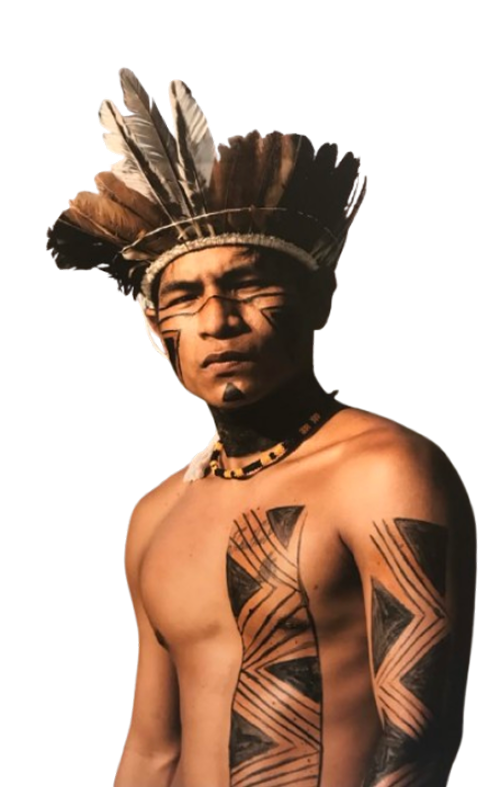
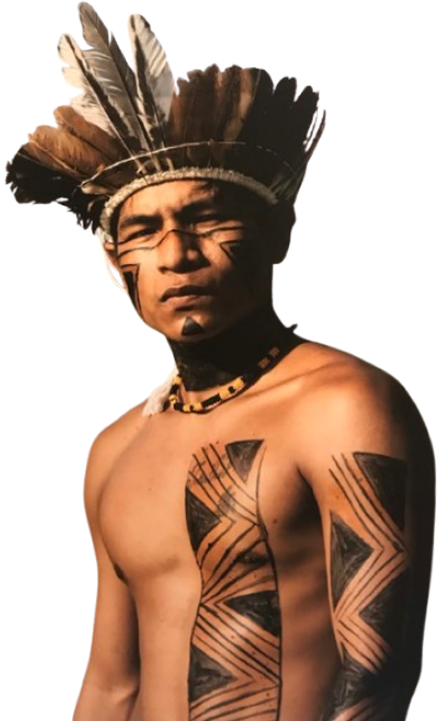
Ajuste de responsividade e estética
Ajustei a altura do indígena conforme escala e fiz algumas adições estéticas, como 14 texturas

diff --git a/source/pages/home-page/home.html b/source/pages/home-page/home.html
@@ -91,7 +91,9 @@
             <a href="/source/pages/semana-cultural-page/semana-cultural.html?scroll=eventoPrincipal" class="bg-[#742E05] hover:bg-orange-700 text-white font-bold py-3 px-8 rounded-md transition-all shadow-md">SAIBA MAIS</a>
         </div>
     </section>
-    <section id="banners">
+
+
+    <section id="banners" class="py-10">
         <div class="banner-wrapper">
             <div class="bannerfront bg_bannerf">
                 <div class="imgs-front">
@@ -111,9 +113,9 @@
         </div>
     </section>
     <section>
-            <div class=" flex py-[13%] ml-[1%] mr-[1%] itens-center">
-                <div class="w-[100%] h-[50%] o-guarani shadow-xl min-h-[615.713px] py-3 rounded-2xl  sm:flex sm:items-center py-10 xl:h-[100vh]">
-                     <div class="font-extrabold text-4xl ml-[2%] sm:text-6xl lg:text-7xl lg:ml-[2%]">
+            <div class="flex h-[90vh] my-[0%] items-end">
+                <div class="w-[100%] o-guarani min-h-[615.713px] py-10 rounded-2xl  sm:flex sm:items-center py-10 xl:mx-[5%] xl:h-[75%]">
+                    <div class="font-extrabold text-4xl ml-[2%] sm:text-6xl lg:text-7xl lg:ml-[2%]">
                         <div class="flex ml-[3%] sm:flex-col font-extrabold text-[#742E05] border-l-4 border-[#F5E4CA] pl-2 pr-4">
                             <h1 class="font-extrabold text-orange-400 mb-[0%] mr-[5%] sm:flex-col sm:mb-[50%] font-extrabold text-[#742E05]">O</h1>
                             <h1>G</h1>
@@ -125,8 +127,8 @@
                             <h1>I</h1>
                         </div>
                     </div>
-                    <div class="texto-guarani mt-[4%] pl-[6%] text-xl justify-center w-[80%] lg:text-2xl xl:w-[55%] text-justify sm:mt-[%] ml-[0%]  ">
-                        <h1>Quem são os Guarani </h1>
+                    <div class="texto-guarani mt-[3%] px-[3%] text-xl justify-center w-[80%] sm:mt-[0%] lg:text-2xl min-[1280px]:w-[60%]  text-justify xl:w-[55%] shadow-xl bg-[#decaac] rounded-3xl">
+                        <h1 class=>Quem são os Guarani </h1>
                         <h3>Um dos povos originários mais antigos da América do Sul, presentes no Brasil, Paraguai, Argentina e Bolívia. Sua história começa muito antes da chegada dos colonizadores.</h3>
                         <h1>Sabedoria ancestral</h1>
                         <h3>A vida Guarani é marcada pela relação profunda com a natureza e pela espiritualidade. Cada rio, floresta e caminho guarda um significado especial.</h3>
@@ -136,11 +138,11 @@
                         <h3>Mais do que preservar sua cultura, os Guarani compartilham com o mundo uma visão baseada na coletividade, no respeito à terra e na harmonia com o sagrado.</h3>
                     </div>
                 </div>
-                <div class= "hidden  xl:block absolute teste "><img src="../../assets/images/indio_image.png" alt="" class="mb-0 w-[540px]"></div> 
+                <div class= "hidden  xl:block absolute ml-[67%] w-[32%] "><img src="../../assets/images/indio_image.png" alt="" class="h-[100%]"></div> 
             </div>
     </section>
     <footer class="footer">
-        <div class="w-[100%] h-[45vh]">
+        <div class="w-[100%] h-[45vh] mt-[4%]">
             <div class="flex gap-[30%]">
                 <div class="w-[22vh] mt-[3vh] ml-[3%] flex items-center justify-center gap-2">
                     <div class="w-[100%]">
@@ -148,7 +150,7 @@
                     </div>
                         <h1 class="text-white itens-center text-3xl font-light">JURUÁ</h1>
                 </div>
-                <div class="text-xl text-white font-extrabold text-center absolute ml-[55%] mt-[2vh] min-[430px]:text-2xl min-[430px]:ml-[52%] min-[520px]:text-3xl min-[520px]:ml-[49%] min-[520px]:tracking-[.10em] min-[770px]:ml-[70%] min-[770px]:mt-[11vh] min-[770px]:text-4xl lg:text-5xl xl:text-6xl"> 
+                <div class="text-xl text-white font-extrabold text-center absolute ml-[65%] mt-[2vh] min-[430px]:text-2xl min-[430px]:ml-[52%] min-[520px]:text-3xl min-[520px]:ml-[49%] min-[520px]:tracking-[.10em] min-[770px]:ml-[70%] min-[770px]:mt-[11vh] min-[770px]:text-4xl lg:text-5xl xl:text-6xl"> 
                     <h1 class="border-b-4 border-[#162C1C] shadow-xl">SEMANA</h1>
                     <h1 class="border-b-4 border-[#162C1C] shadow-xl">CULTURAL</h1>
                     <a href="/source/pages/semana-cultural-page/semana-cultural.html" class="bg-[#162C1C] p-2 rounded-3xl text-sm mt-[1vh] font-bold shadow-xl hover:bg-[#09130c] min-[430px]:text-md min-[770px]:text-xl min-[770px]:p-3">

diff --git a/source/pages/home-page/home.css b/source/pages/home-page/home.css
@@ -97,14 +97,14 @@
         rgb(214, 192, 164);
 }
 
- .teste{
-    /* padding-left: 60%; */
+ /* .teste{
+    /* padding-left: 60%; 
     margin-left: 55% ;
     margin-top: -18.6vh;
  }
  @media (min-width: 1380px){
     .teste{margin-left: 58%;}
-}
+}*/
 
 .footer{
     background: 
@@ -113,6 +113,6 @@
 }
 .o-guarani{
     background: 
-        linear-gradient( #ccc1a3);
-        /* url(../../assets/images/fundoSecao3.png);    */
+        linear-gradient( rgba(224, 203, 173, 0.9)),
+        url(../../assets/images/Textura14.png);   
 }
